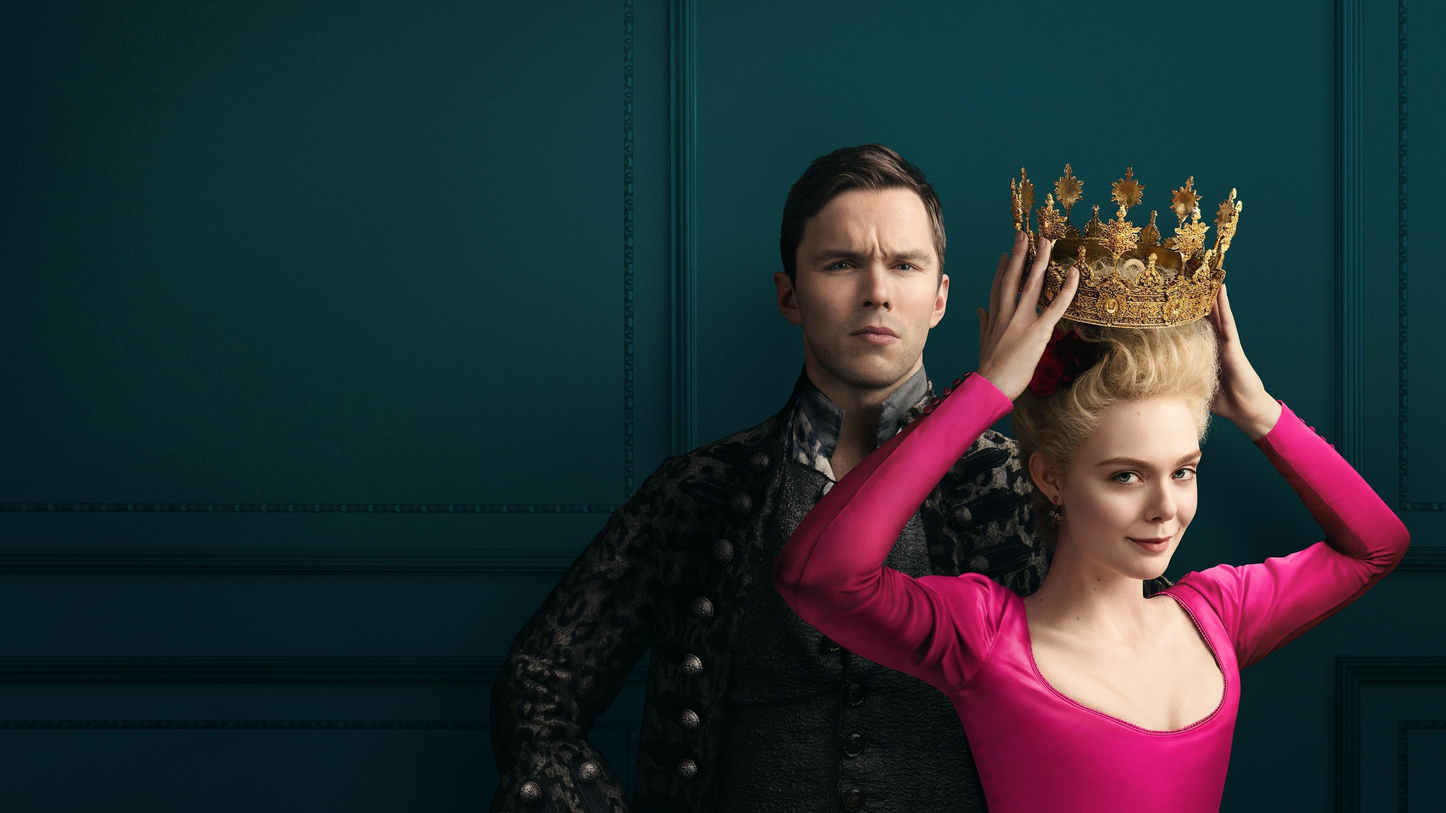
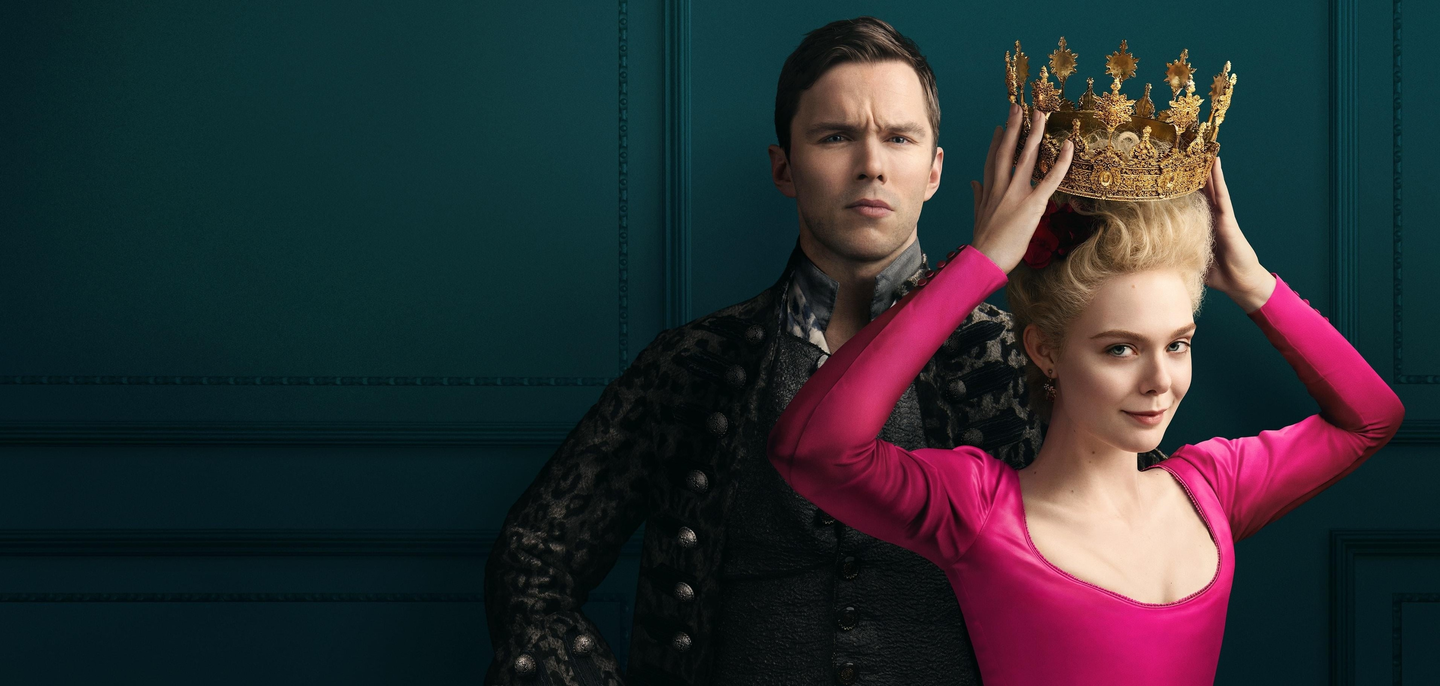
Projeto finalizado

diff --git a/style/main.css b/style/main.css
@@ -9,7 +9,7 @@
     box-sizing: border-box; /* Limita o conteúdo somente a área do box*/
 }
 
-/* BASE */
+/* Elementos Base */
 body {
     background: var(--preto);
     font-family:Arial, Helvetica, sans-serif;
@@ -45,9 +45,9 @@ header nav a:hover {
 /* FILME PRINCIPAL */
 .filme-principal {
     font-size: 16px;
-    background: linear-gradient(rgba(0,0,0,.50),rgba(0,0,0,.50)100%), url('/img/the-great.jpg'); /*https://www.themoviedb.org/?language=pt-BR*/
+    background-image: /*linear-gradient(rgba(0, 0, 0, .50),rgba(0,0,0,.50)100%),*/ url('/img/the-great.jpg'); /*https://www.themoviedb.org/?language=pt-BR*/
     
-    /*height: 400px;*/
+    height: 400px;
     background-size: cover;
 
     display: flex;
@@ -61,16 +61,16 @@ header nav a:hover {
     margin-bottom: 40px;
 }
 
-.titulo {
+.filme-principal .titulo {
     margin-top: 15%;
     font-size: 40px;
 }
 
 .botao {
-    background-color: #00000080;
+    background-color: rgba(0, 0, 0, .50);
     border: none;
     color: white;
-    width: 200px;
+    width: 200px; /* Add por Jhonni */
 
     padding: 15px 30px;/* Espaço interno do elemento*/
     margin-right: 15px;
@@ -87,7 +87,7 @@ header nav a:hover {
 }
 
 .botao i {
-    margin-right: 5px;
+    margin-right: 8px;
 }
 
 .container {
@@ -95,13 +95,14 @@ header nav a:hover {
 }
 
 .filme-principal .container {
-    width: 40%;
+    width: 70%;
 }
 
 .box-filme {
     height: 100%;
     width: 100%;
     display: block;
+    cursor: pointer;
 }
 
 .carousel-filmes {

diff --git a/style/responsive.css b/style/responsive.css
@@ -1,5 +1,5 @@
 /* Media Queries */
-@media screen and (max-width: 600px){
+@media screen and (max-width: 700px){
     header .container {
         display: flex;
         flex-direction: column;
@@ -14,7 +14,7 @@
     }
 }
 
-@media screen and (min-width: 600px) {
+@media screen and (min-width: 700px) {
     .sinopse {
         width: 50%;
     }
